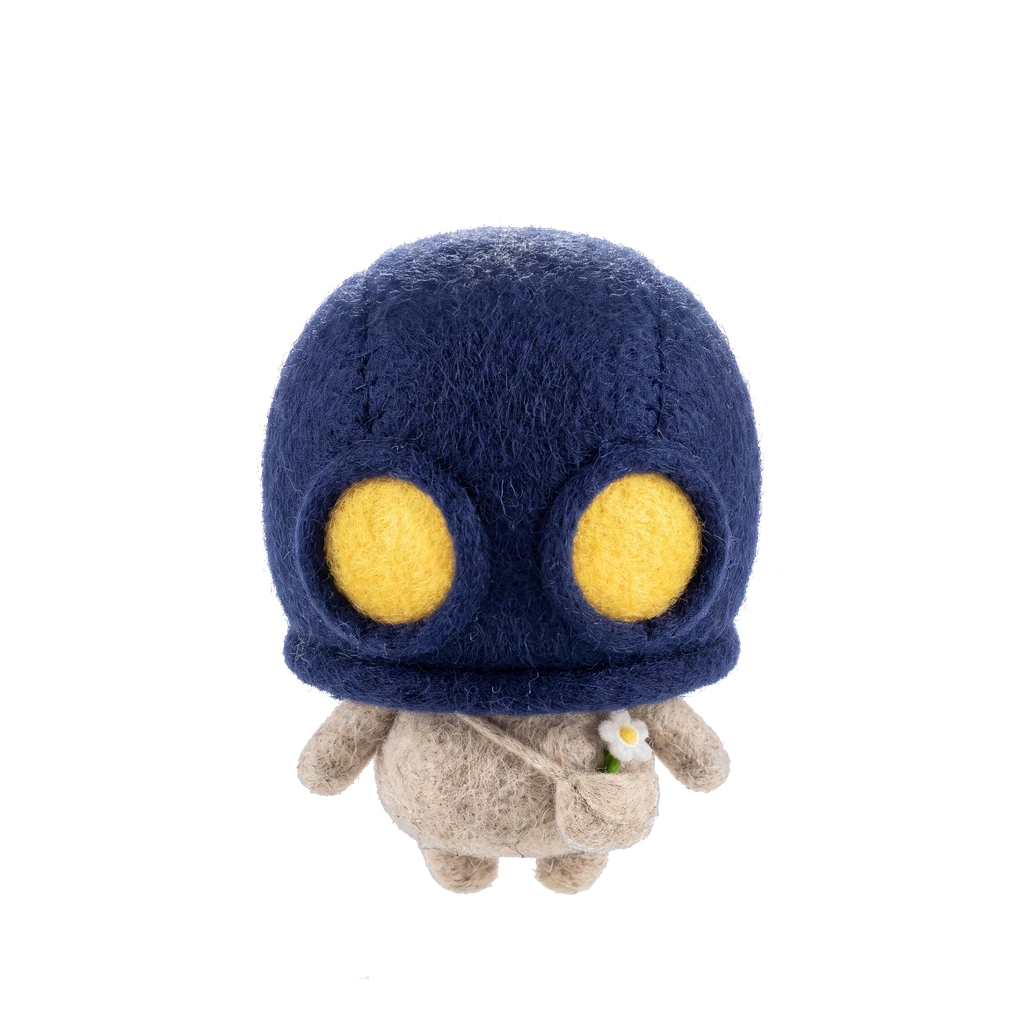
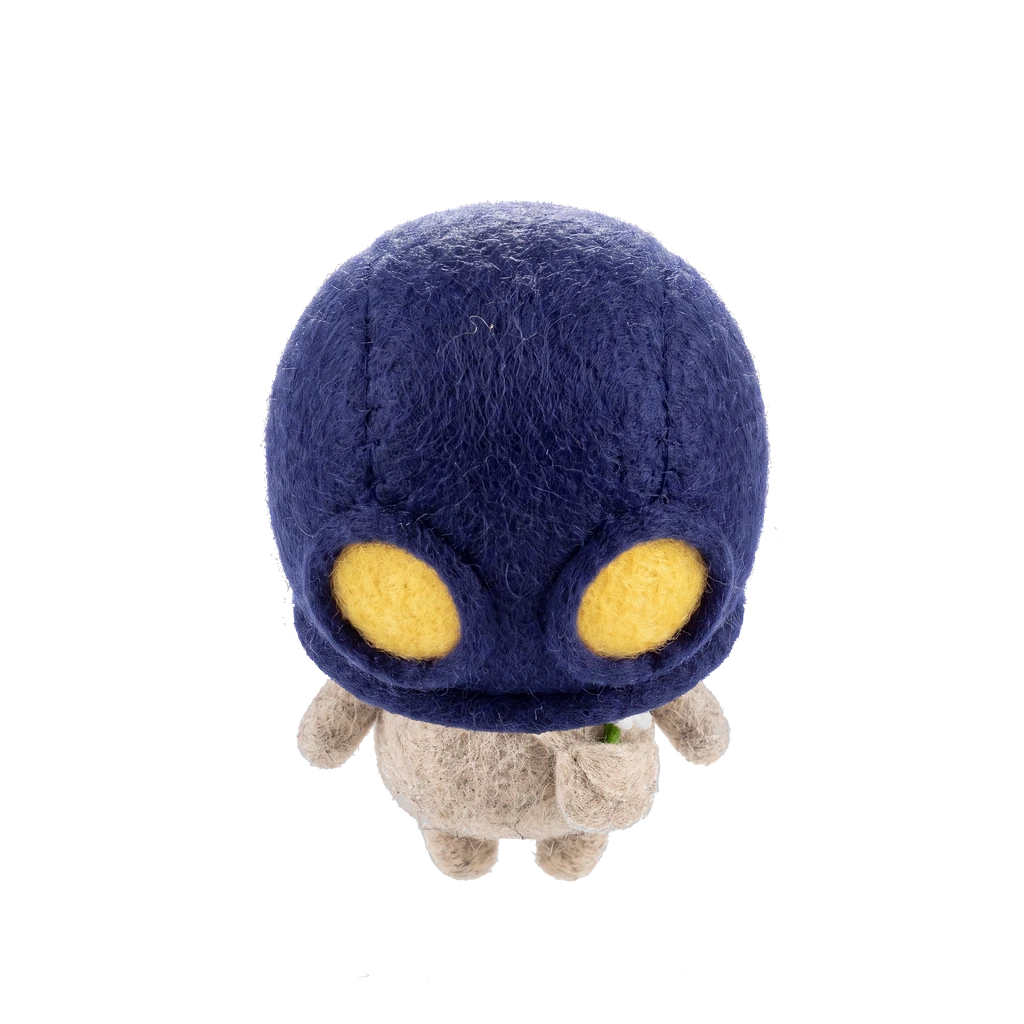
인사는 09-07 판으로 확정 — 오늘 만든 둘을 물린다 (유호 확정 09-08)
유호 「인사하는 티가 안 나는데? 이 직전에 1,2번 사진은 괜찮았어. 그냥 인사하는건 이 두개로 확정해」.

오늘 시험한 둘을 다 물렸다:
  ⓐ 본체를 통째로 18도 기울인 판 — 투구까지 눌려(1955→1879 · 폭 2009→2045)
     「숙였다」가 아니라 「작아졌다」로 읽혔다.
  ⓑ 투구 크기를 지키고 몸만 누른 판 — 투구는 그대로였지만 숙인 티가 안 났다.
🔑 까닭 = 마린은 키의 60%가 투구다. 몸통·다리가 짧아 몸을 12% 눌러도
   머리가 4096 중 151화소밖에 안 내려간다. 2차원 변형으로는 «정수리가 더 보이는 것»을 못 만든다.
   ⇒ 머리가 큰 캐릭터의 숙임은 눌러서 못 만들고, 숙인 머리를 «구워서» 얹어야 한다.

정본 = 09-07 판(숙인 컷에서 투구만 떼어 본체 몸에 얹은 것)으로 되돌렸고 가장자리만 수리했다.
겹침 층도 되돌렸다 — 몸이 본체 그대로라 감추는 것은 머리 옷만이다.
곁들여 헬멧얹기에 «가로·세로 따로 키우기»를 넣었다(앞단축은 세로만 짧아진다).

Session-Id: local_d071c872-d002-45ad-abd4-bd9a1715a962

Changed region(s): [[0.25, 0.1875, 0.75, 0.875]]

diff --git a/bots/오버레이/마스코트.html b/bots/오버레이/마스코트.html
@@ -454,9 +454,9 @@ function 옷파일(DJ, 이름) { return 옷경로 + '옷_' + DJ + '_' + 이름 +
 /* 🔴 09-07 정정 — 「흰꽃한송이」가 여기 들어 있었는데 **머리 것이 아니다**. 조각이 든 자리를 재보니
    세로 66~83%(가슴·바구니 자리)로 임무조끼(62~81%)와 같은 띠고, 머리 것(펠트헤드폰)은 16~58% 다.
    인사 컷은 «머리만» 숙이므로 가슴 조각은 그대로 맞는다 — 감추면 꽃이 인사할 때마다 사라진다. */
-/* 🔴 2026-09-08 정정 — 위 두 주석은 인사가 «머리만 숙이던» 때의 것이다. 그날 인사 컷이
-   «본체를 통째로 기울인 판»으로 바뀌어서(유호 지시), 이제 이 목록은 **인사 때 감추는 자로 안 쓴다**
-   — 인사 1.2초 동안은 옷을 전부 감춘다(아래 표정갱신). 여기 목록이 지금도 하는 일은 «살이 컷 고르기» 하나다. */
+/* 🔑 2026-09-08 — 위 두 주석은 그대로 산다. 그날 인사를 «본체를 기울인 판»으로 바꿔 봤다가
+   유호님 판정으로 09-07 판(투구만 숙임)으로 되돌아왔기 때문이다(「인사하는 티가 안 난다 ·
+   이 두 개로 확정해」 · 결정 원장 09-08). 되돌림 서사는 tools/마스코트인사만들기.py 머리말이 쥔다. */
 const 머리옷 = new Set(['펠트헤드폰', '몽골모자', '안경', '털모자', '창가밀짚모자', '3급왕관', '6개월출석화관']);
 /* 🆕 2026-09-08 부스 뒤에 숨는 옷 — 유호 지적 「부스 위에 꽃이 하나 붙어있어」. 흰꽃한송이는 가슴(세로 66~83%)에
    달리는데 부스가 그 자리 앞에 서서, 꽃의 윗머리만 부스 윗선 위로 삐죽 나와 «부스에 붙인 꽃»처럼 보였다.
@@ -682,11 +682,11 @@ function 한틱() {
   const 고정 = 인자.get('고정');
   if (고정 && 이미지[현재DJ] && 이미지[현재DJ][고정]) 컷 = 고정;
   표정(컷);
-  /* 🔴 2026-09-08 — 인사 컷이 «머리만 숙임」에서 «몸 전체를 기울임»으로 바뀌었다(유호 지시
-     「인사도 본체 기울여서 만들어줘」 · 자 = tools/마스코트인사만들기.py 18도).
-     이제 가슴·다리도 함께 내려오므로 **머리 옷만 감추면 가슴 조각이 뜬다** ⇒ 1.2초 동안 옷을 전부 감춘다.
-     마린의 꽃·가방끈·주머니는 본체 그림에 이미 박혀 있어서, 옷을 감춰도 «맨몸»으로 보이지 않는다. */
-  for (const im of 옷들) im.style.visibility = (컷 === '인사') ? 'hidden' : '';
+  /* 🔴 2026-09-08 되돌림 — 그날 인사를 «몸 전체를 기울인 판»으로 바꿔 봤다가 유호님 판정으로
+     **09-07 판(투구만 숙임)으로 되돌아왔다**(「인사하는 티가 안 난다 · 이 두 개로 확정해」).
+     까닭 = 마린은 키의 60%가 투구라 몸만 눌러서는 머리가 151화소밖에 안 내려가 티가 안 난다.
+     ⇒ 몸은 본체 그대로이므로 감추는 것은 **머리 옷만**이다(가슴 조각은 자리가 맞는다). */
+  for (const im of 옷들) im.style.visibility = (컷 === '인사' && 머리옷.has(im.dataset.이름 || '')) ? 'hidden' : '';
   틀.style.transform = `translateY(${(-떠오름).toFixed(2)}px) rotate(${기울기.toFixed(2)}deg) scale(${sx.toFixed(4)}, ${sy.toFixed(4)})`;
 }
 requestAnimationFrame(프레임);

diff --git a/tools/마스코트헬멧얹기.py b/tools/마스코트헬멧얹기.py
@@ -87,7 +87,8 @@ def main():
     ap.add_argument('--파랑', type=int, default=10, help='파랑 − max(빨강,초록) 이 이보다 커야 헬멧(가슴 그늘을 거른다)')
     ap.add_argument('--넓힘', type=int, default=12, help='정본 헬멧을 지울 때 가장자리를 넓히는 폭(px)')
     ap.add_argument('--테두리', type=int, default=160, help='헬멧 «위쪽» 둘레 이 폭(px) 안의 털을 옛 것은 지우고 새 것은 얹는다 · 0 이면 안 한다')
-    ap.add_argument('--키움', type=float, default=1.0, help='얹는 헬멧을 목 자리 기준으로 키우는 배율')
+    ap.add_argument('--키움', type=float, default=1.0, help='얹는 헬멧의 가로 배율(목 자리 기준)')
+    ap.add_argument('--세로키움', type=float, default=0.0, help='세로 배율을 따로 준다(0 이면 가로와 같이 간다)')
     ap.add_argument('--내림', type=int, default=0, help='얹는 헬멧을 아래로 미는 px(음수면 위로)')
     ap.add_argument('--옆', type=int, default=0, help='얹는 헬멧을 오른쪽으로 미는 px(음수면 왼쪽)')
     ap.add_argument('--검사', action='store_true', help='못 덮은 점을 자홍색으로 찍은 확인 그림을 함께 낸다')
@@ -131,13 +132,17 @@ def main():
     층[층마스크] = A1s[층마스크]
     층im = Image.fromarray(층, 'RGBA')
     목 = ((hx_a + hx_b) / 2, hy_b - (hy_b - hy_a) * 0.15)
-    if a.키움 != 1.0:
-        kw, kh = max(1, round(새w * a.키움)), max(1, round(새h * a.키움))
+    # 🔴 2026-09-08 — 가로·세로를 «따로» 잡는다(유호 지적 「인사하는 티가 안 난다」).
+    #   앞으로 숙이면 투구는 가로는 그대로고 **세로만 짧아진다**(앞단축). 한 배율로 키우면
+    #   그 둘이 묶여서, 세로를 맞추면 가로가 좁아지고 가로를 맞추면 머리가 커 보인다.
+    kx, ky = a.키움, (a.세로키움 if a.세로키움 else a.키움)
+    if kx != 1.0 or ky != 1.0:
+        kw, kh = max(1, round(새w * kx)), max(1, round(새h * ky))
         큰 = 층im.resize((kw, kh), Image.LANCZOS)
         판 = Image.new('RGBA', (새w, 새h), (0, 0, 0, 0))
         # 목 자리가 제자리에 남게 붙인다
-        ox = int(round(목[0] - 목[0] * a.키움))
-        oy = int(round(목[1] - 목[1] * a.키움))
+        ox = int(round(목[0] - 목[0] * kx))
+        oy = int(round(목[1] - 목[1] * ky))
         판.paste(큰, (ox, oy))
         층im = 판
 
@@ -177,7 +182,7 @@ def main():
     os.makedirs(os.path.dirname(os.path.abspath(a.낼곳)), exist_ok=True)
     낸것.save(a.낼곳)
     print(f'■ 헬멧 얹기 → {a.낼곳}')
-    print(f'   배율 {s:.4f}(정본 점 {n0:,} / 숙인 컷 점 {n1:,}) · 옮김 dx={dx} dy={dy} · 키움 {a.키움} · 넓힘 {a.넓힘}')
+    print(f'   배율 {s:.4f}(정본 점 {n0:,} / 숙인 컷 점 {n1:,}) · 옮김 dx={dx} dy={dy} · 키움 가로 {a.키움} 세로 {a.세로키움 or a.키움} · 넓힘 {a.넓힘}')
     print(f'   정본 헬멧 상자 {상자(H0)} · 얹은 헬멧 상자 {tuple(int(v) for v in np.array(상자(새알파)))}')
     print(f'   지운 점 {int(지울것.sum()):,} · 못 덮은 점 {int(못덮음.sum()):,} · 그중 몸 자리(사고) {n사고:,}'
           + ('  ✅' if n사고 == 0 else '  🔴 --키움 · --내림 · --옆 으로 잡는다'))

diff --git a/tools/마스코트인사만들기.py b/tools/마스코트인사만들기.py
@@ -1,6 +1,18 @@
 # -*- coding: utf-8 -*-
 """마스코트 인사 컷 — 본체를 «앞으로 숙인 것처럼» 기울여 만든다 (유호 지시 2026-09-08).
 
+🔴🔴 **이 자로 만든 판은 정본에 안 섰다 — 유호님이 09-08 에 물리셨다.**
+   유호 판정 원문: 「인사하는 티가 안 나는데? 이 직전에 1,2번 사진은 괜찮았어.
+   그냥 인사하는건 이 두개로 확정해」 ⇒ 인사는 **09-07 판**(숙인 컷에서 투구만 떼어
+   본체 몸에 얹은 것 · `tools/마스코트헬멧얹기.py`)으로 확정됐다(결정 원장 09-08).
+   🔑 **왜 안 통했나 — 마린은 키의 60%가 투구다.** 몸통·다리가 짧아서 몸을 12% 눌러도
+   머리가 4096 중 151화소밖에 안 내려간다. 화면에서는 안 보인다.
+   그리고 통째로 기울이면 투구까지 눌려(1955→1879 · 폭 2009→2045) 「숙였다」가 아니라
+   **「작아졌다」로 읽힌다.** 2차원 변형으로는 «정수리가 더 보이는 것»을 못 만들기 때문이다.
+   ⇒ **머리가 큰 캐릭터의 «숙임»은 눌러서 못 만든다. 숙인 머리를 «구워서» 얹어야 한다.**
+   이 파일은 다른 캐릭터(머리가 작은 쪽)나 다른 동작에 쓸 수 있어 남긴다.
+
+
   왜 굽지 않고 기울이나
     인사 컷을 따로 구우면 꽃·가방끈·다리가 매번 달라진다(09-08 실측 · 34도 둘의 꽃 줄기가
     본체의 절반이었다). 본체를 그대로 변형하면 **의상이 본체에서 온 화소 그대로**다.

diff --git a/docs/_ops/결정.md b/docs/_ops/결정.md
@@ -59,6 +59,7 @@ node tools/결정.js --추가 "결정문" --성격 안전 --근거 "…"        
 
 | 날짜 | 성격 | 결정 | 근거 |
 |---|---|---|---|
+| 2026-09-08 | 확정 | 마린 인사 컷은 09-07 판(숙인 컷에서 투구만 떼어 본체 몸에 얹은 것)으로 확정한다. 인사 동작은 본체와 이 컷 두 장으로 낸다. | 유호 확정 09-08 「인사하는 티가 안 나는데? 이 직전에 1,2번 사진은 괜찮았어. 그냥 인사하는건 이 두개로 확정해」 · 그날 시험한 둘(본체를 통째로 18도 기울인 판 · 투구 크기를 지키고 몸만 누른 판)은 둘 다 숙인 티가 안 나서 안 쓴다 — 마린은 키의 60%가 투구라 몸만 눌러서는 머리가 151화소밖에 안 내려간다 |
 | 2026-09-08 | 확정 | 라디오 방송을 공개로 연다(유호 지시 09-08 「공개로 바꿔줘」). 비공개로 12분 지켜보기를 통과한 자리 eI-5vSy5mjY 를 그대로 공개로 돌렸다. 함께 채운 것 셋 = 표지(docs/라디오/썸네일.png) · 분류 교육(27) · 찾는 낱말 12개(몽골어 둘 포함). 넣는 자는 tools/라디오방송단장.js 하나다. | 유호 지시 09-08 |
 | 2026-09-08 | 확정 | GPT·코덱스에 판단 정본(docs/SYNK_철학.md)을 이식한다. 클로드 지침서(CLAUDE.md)를 통째로 옮기는 것은 안 한다 — 그것을 실제로 지키는 절반이 글이 아니라 훅 13벌이고, GPT 쪽엔 그 자리가 없어 옮겨도 반쪽만 간다. 옮기는 것은 철학 하나다. 실물 = codex-build.js 의 실행자·발주검토자 프롬프트에 게이트를 싣고(그전엔 0자였다 · 검수 레인만 5,672자를 받고 있었다), philosophy-card.js 에 --전문 을 더해 자율로 연 GPT 가 안 잘린 기준을 읽게 하고, AGENTS.md 2-1 이 그 명령을 준다. | 유호 확정 09-08 「철학 정본만 이식하자」 |
 | 2026-09-08 | 확정 | LAB 틱톡의 아이디를 real.k.talk 에서 synk.mn 으로, 닉네임을 「주온쌤의 Real K-talk」에서 「SYNK LAB」으로 바꿨다. 09-06 확정 ⓑ(「소개서만 간다 · 아이디와 닉네임은 이번에 안 건드린다」)를 이것이 대체한다. 값 = 인스타와 틱톡이 같은 이름이 됐다. 명품 기준 v1 이 결함 4번으로 잡아 둔 「LAB 계정 넷의 이름이 다 다르다」가 셋으로 줄었다(synkworld · synk.mn · synkkorean). synk.mn 은 틱톡에서 비어 있었다. 🔴 치르는 값 = 아이디는 30일에 한 번만 바꿀 수 있어 10-08 까지 되돌릴 수 없고, tiktok.com/@real.k.talk 를 가리키던 링크가 죽는다(우리 문서 안에만 있어 손해는 0). 프로필 사진은 09-06 확정 그대로 «유호님 얼굴»로 뒀다 — 몽글로 안 갔다. 영상 3개와 몽골어 소개도 그대로다. | 유호 지시 2026-09-08 「틱톡 소개서 창 열어놨으니 틱톡도 고쳐. 이름도 니 맘대로 고쳐도 돼. 지금은 real.k.talk이잖아」 |
